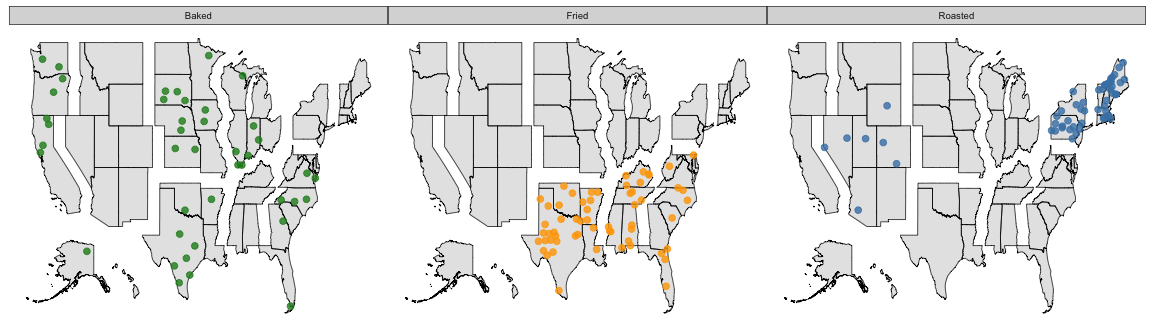
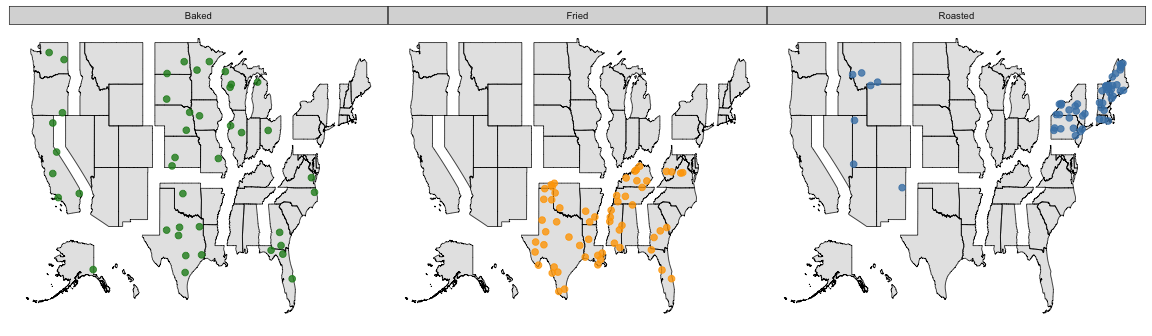
explanation for simulation from model's residuals

diff --git a/README.md b/README.md
@@ -117,7 +117,11 @@ Going back to the (loglinear) model of the ways turkeys are cooked by
 division, we can visualize the residuals using randomly picked locations
 in each of the divisions.
 
-    ## Warning in left_join_impl(x, y, by$x, by$y, suffix$x, suffix$y): joining
-    ## factor and character vector, coercing into character vector
-
 ![](README_files/figure-markdown_strict/unnamed-chunk-12-1.png)
+
+What we see now, is the geographical pattern from before: fried turkeys
+are (disproportionally) most common in the South East, and we see the
+split between baked and roasted turkey across the country - with roasted
+turkey in particular most popular in New England. What we find
+additionally, though, is that besides fried turkey in the South East, we
+also see a liking of baked turkey that was not apparent before.
